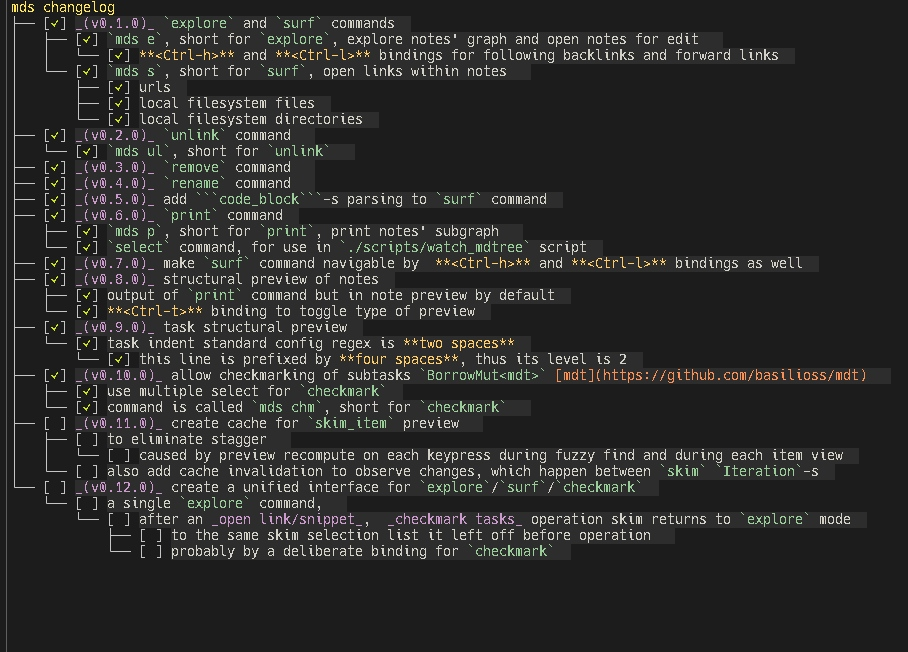
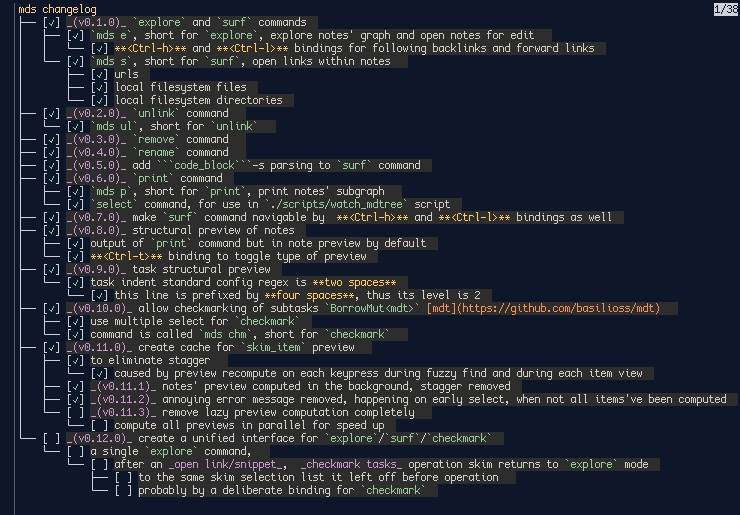
fix(skim::explore): supress error message on receiver closed early If a selection is made prior to all items' previews have been computed completely, errors Err(SendErr(..)) messages are printed into console, messing up skim

Changed region(s): [[0.0, 0.0, 0.9946, 1.0], [0.9635, 0.0, 1.0, 0.0311]]

diff --git a/src/skim/explore.rs b/src/skim/explore.rs
@@ -1,4 +1,3 @@
-use colored::Colorize;
 use std::{
     collections::HashMap,
     sync::{Arc, Mutex},
@@ -105,7 +104,8 @@ impl Iteration {
 
                     let result = tx.send(Arc::new(note));
                     if result.is_err() {
-                        eprintln!("{}", format!("{:?}", result).red());
+                        // eat up errors on receiver closed
+                        // eprintln!("{}", format!("very bad {:?}", result).red());
                     }
                 }
                 

diff --git a/src/main.rs b/src/main.rs
@@ -31,7 +31,7 @@ trait Open {
 #[tokio::main(flavor = "multi_thread", worker_threads = 10)]
 async fn main() {
     let cmd = clap::Command::new("mds")
-        .version("v0.11.1")
+        .version("v0.11.2")
         .bin_name("mds")
         .arg(clap::arg!(-c --color  "whether color output should be forced"))
         .subcommand_required(true)
